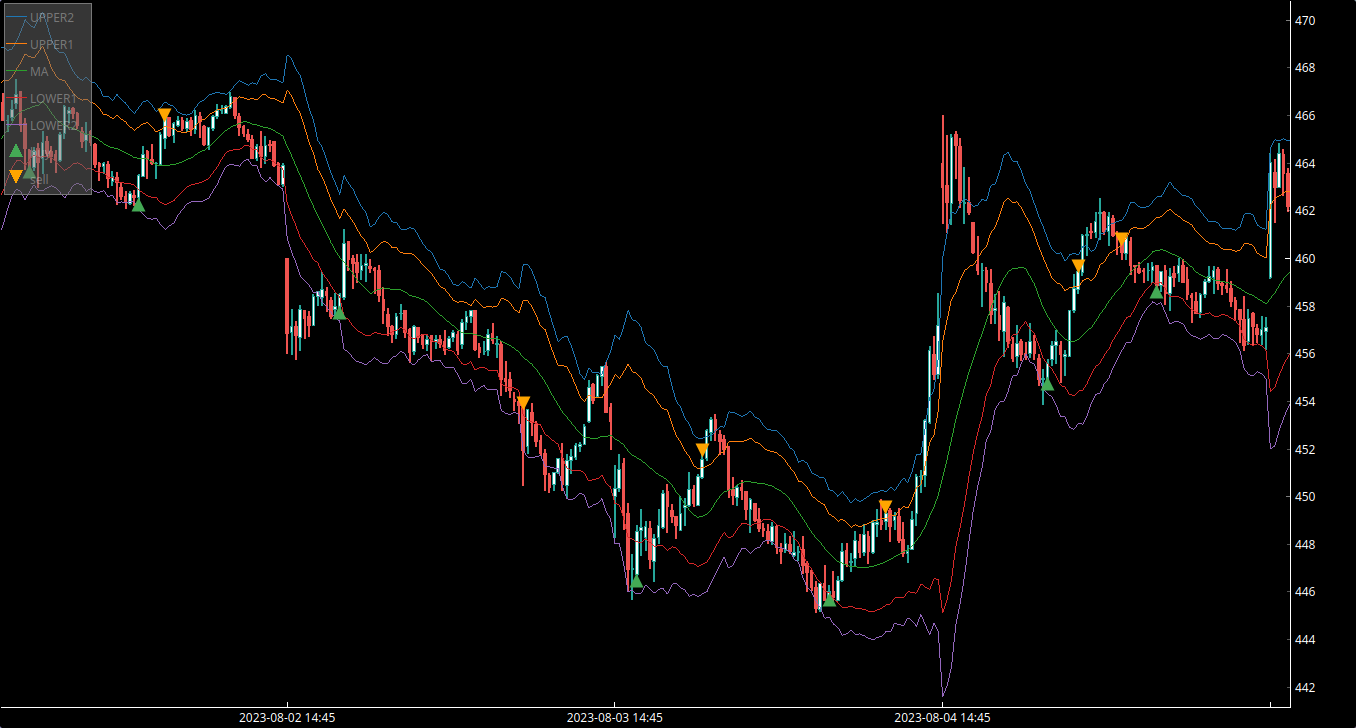
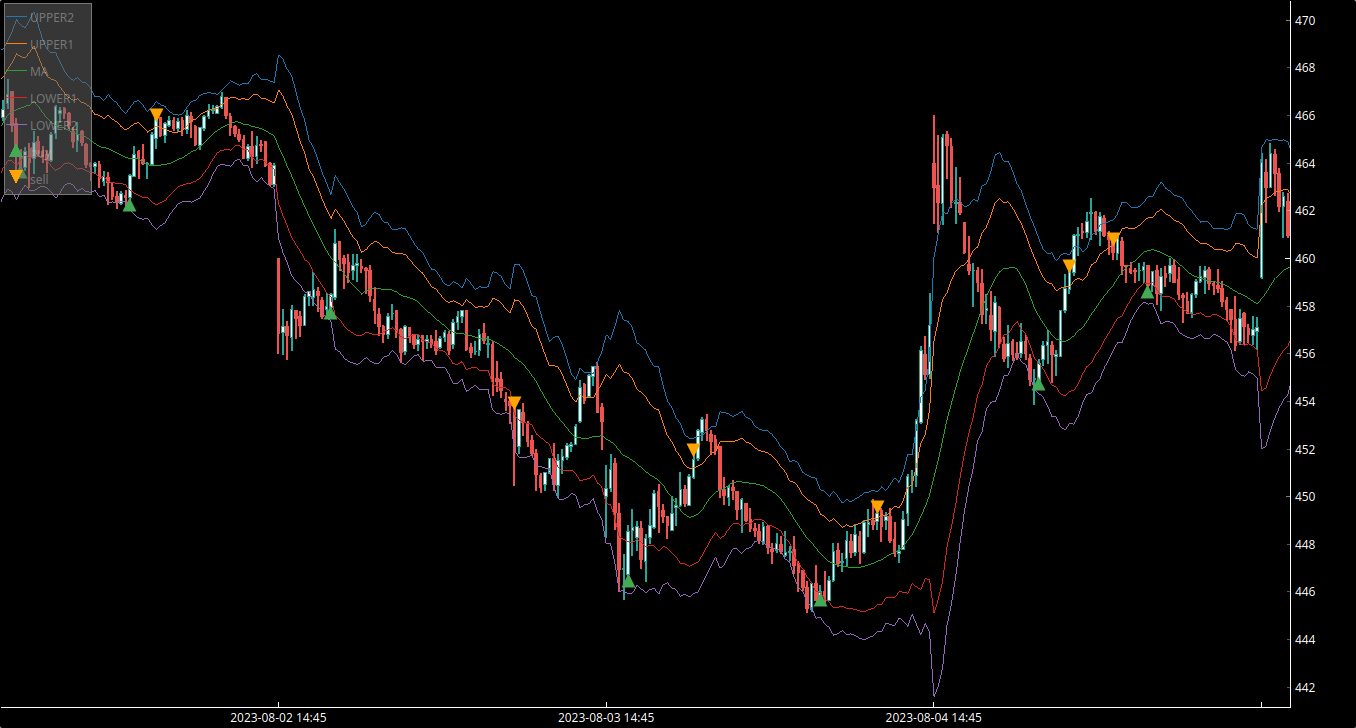
lib

diff --git a/quant_bt/simple.py b/quant_bt/simple.py
@@ -15,7 +15,7 @@ fplt.candle_shadow_width = 2
 
 dir_path = "../../../"
 # Define  Bands parameters
-window = 20
+window = 30
 fibratio1 = 1.618
 fibratio2 = 2.618
 fibratio3 = 4.236
@@ -126,7 +126,7 @@ for symbol in unique_symbols:
     # Convert the index to a datetime index (if not already)
     df.index = pd.to_datetime(df.index)
     # Converting to returns
-    df['returns'] = df['returns'] / capital      
+    df['returns'] = df['returns'] / capital
     # extend pandas functionality with metrics, etc.
     qs.extend_pandas()
     qs.reports.metrics(df.returns, cumulative=False)  # turn off compounding
